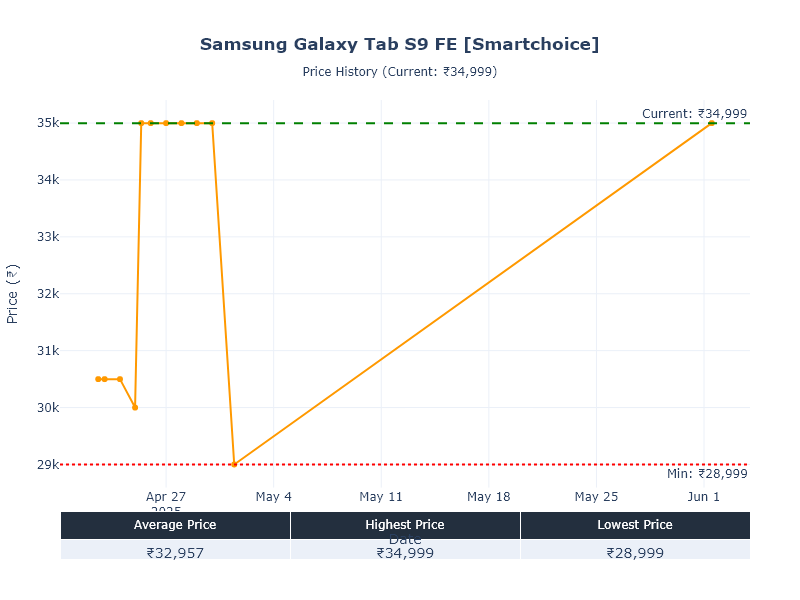
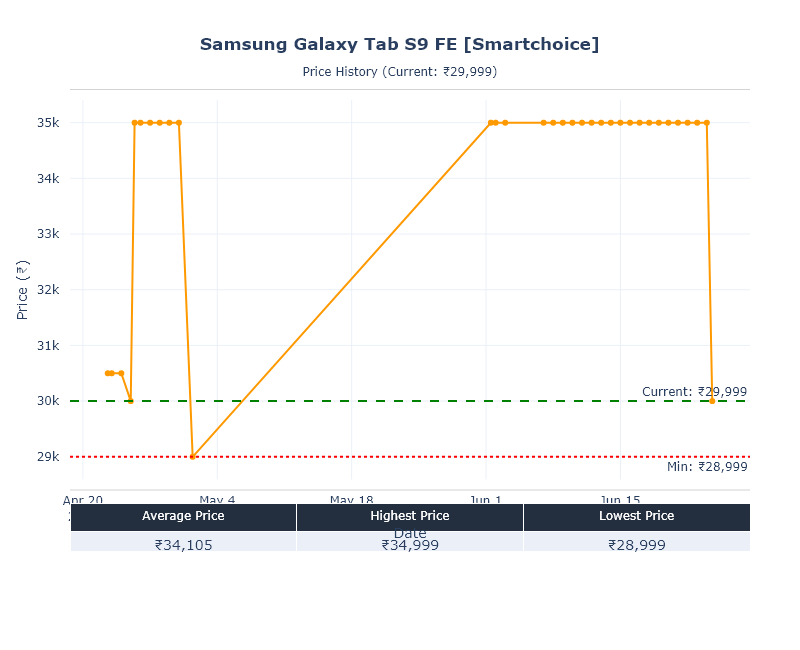
github actions workflow added

diff --git a/chart_generator.py b/chart_generator.py
@@ -122,11 +122,18 @@ def generate_chart_image(
             title=f"<b>{product_name[:50]}</b><br><sub>Price History (Current: ₹{new_price:,.0f})</sub>",
             title_x=0.5,
             template="plotly_white",
-            height=600,
+            height=650,  # Increased height to accommodate more space
             width=800,
-            margin=dict(t=100, b=20, l=50, r=50),
+            margin=dict(t=100, b=80, l=50, r=50, pad=10),  # Increased bottom margin and added padding
             showlegend=False,
             xaxis_rangeslider_visible=False,
+            plot_bgcolor='white',
+            xaxis=dict(
+                showline=True,
+                linewidth=1,
+                linecolor='lightgray',
+                mirror=True
+            ),
         )
 
         # Update axes

diff --git a/config.py b/config.py
@@ -1,7 +1,9 @@
 import os
 
 # Path Configuration
-DATA_DIR = "D:/Documents/Python/Amazkart/data"
+# Get the absolute path of the directory where the script is located
+BASE_DIR = os.path.dirname(os.path.abspath(__file__))
+DATA_DIR = os.path.join(BASE_DIR, "data")
 PRODUCTS_CSV = os.path.join(DATA_DIR, "products.csv")
 
 # Email Configuration
@@ -10,5 +12,4 @@ EMAIL_TO = os.getenv("WHC_TO_EMAIL")
 EMAIL_PASSWORD = os.getenv("WHC_EMAIL_PASS")
 
 # Selenium Configuration
-GECKODRIVER_PATH = "C:/programs/geckodriver.exe"
 HEADLESS = True  # Set to True for headless mode

diff --git a/price_tracker.py b/price_tracker.py
@@ -8,7 +8,7 @@ from selenium.webdriver.common.by import By
 from selenium.webdriver.firefox.options import Options
 from selenium.webdriver.firefox.service import Service as FirefoxService
 from webdriver_manager.firefox import GeckoDriverManager
-from config import DATA_DIR, PRODUCTS_CSV, GECKODRIVER_PATH, HEADLESS
+from config import DATA_DIR, PRODUCTS_CSV, HEADLESS
 
 
 def initialize_driver():

diff --git a/main.py b/main.py
@@ -1,5 +1,5 @@
 import traceback
-import os
+
 import random
 from selenium.webdriver.common.by import By
 import time
@@ -14,7 +14,7 @@ from price_tracker import (
 from email_sender import send_price_alert
 from chart_generator import generate_chart_image
 
-os.chdir("D:/Documents/Python/Amazkart")
+
 
 
 def track_prices():
